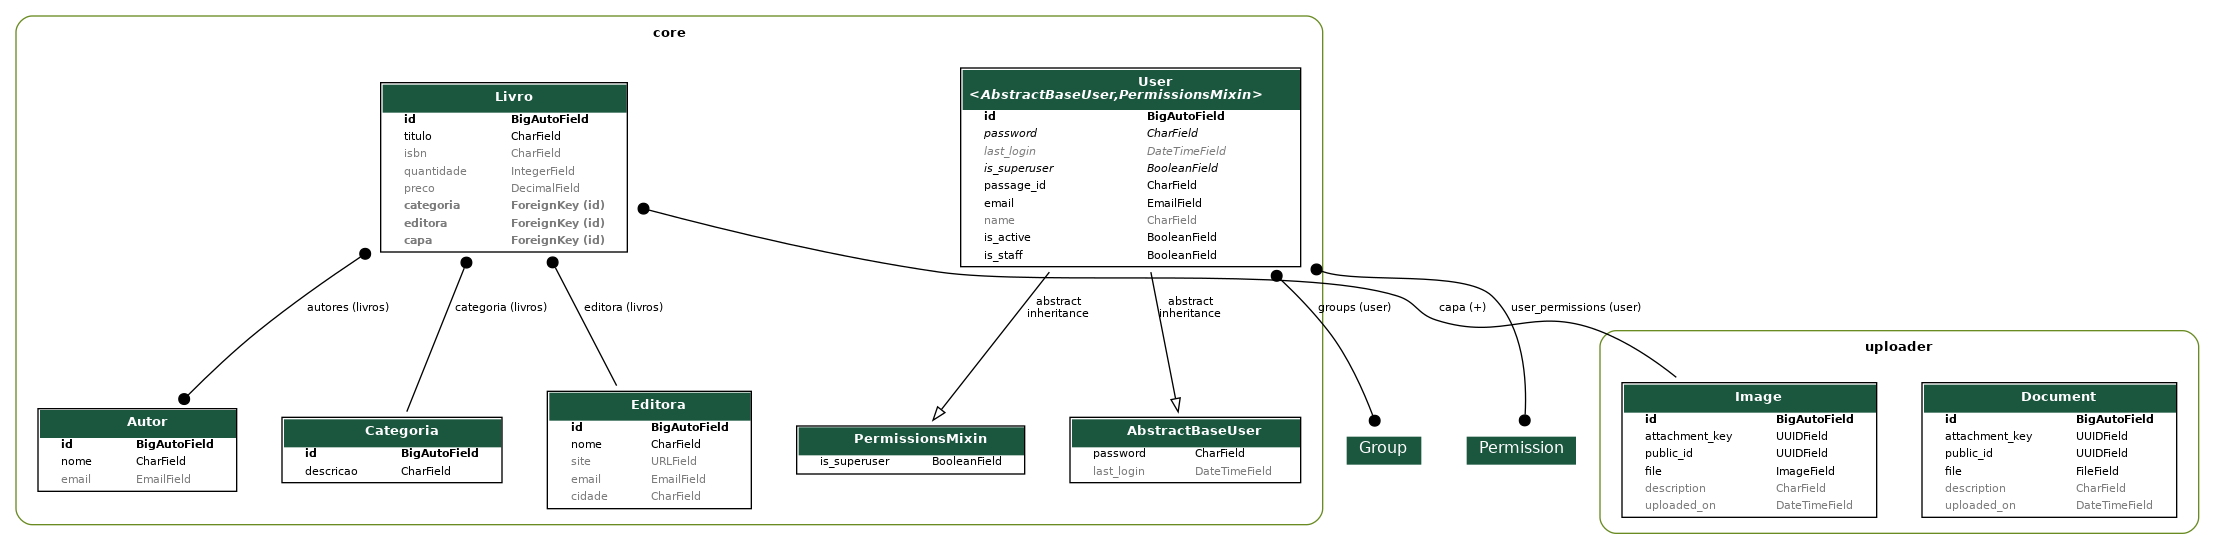
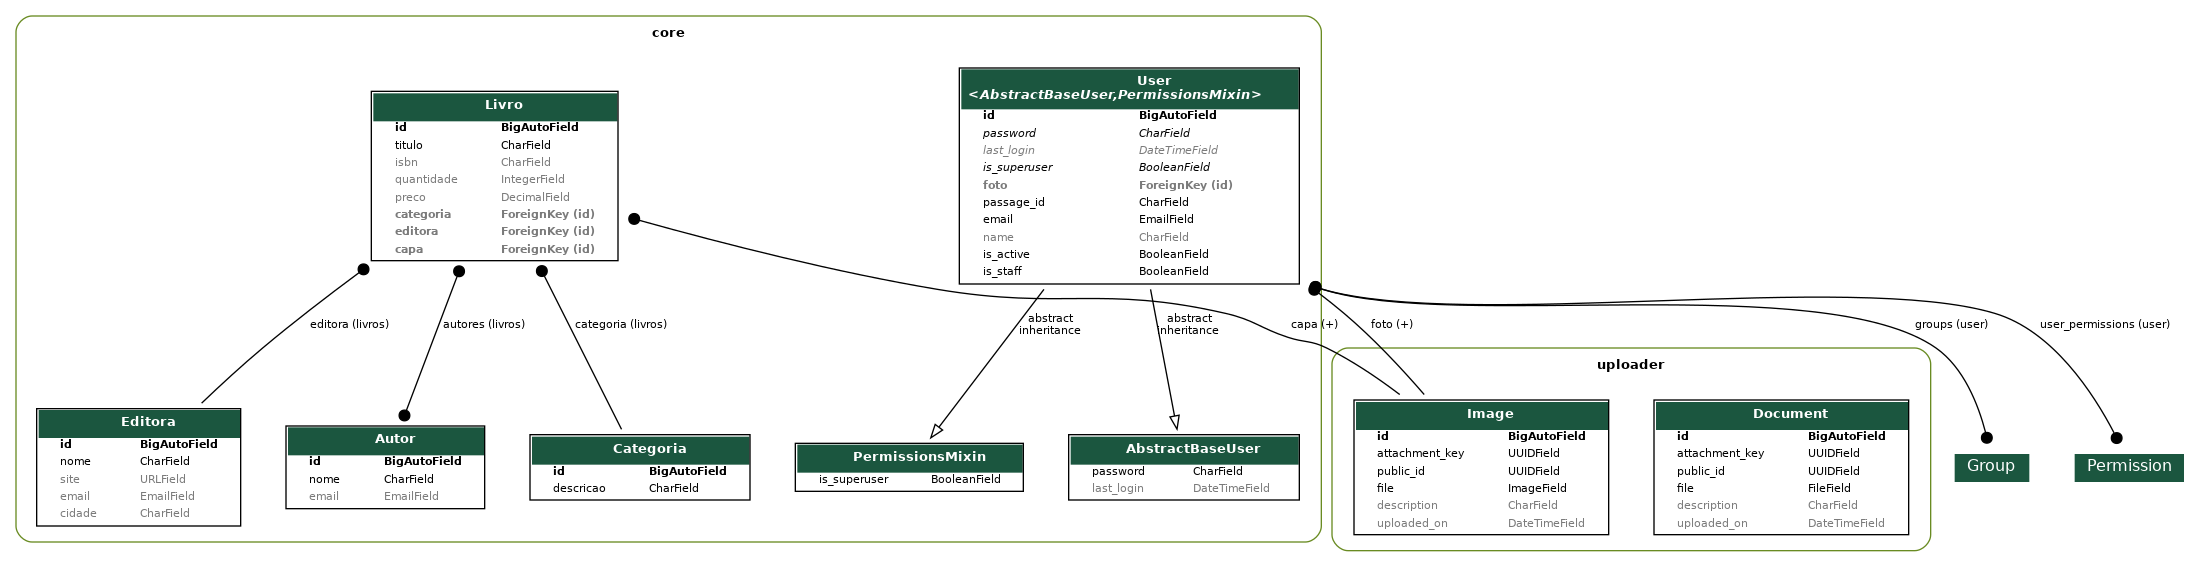
feat: inclusão da foto de perfil no usuário.

diff --git a/core/models/user.py b/core/models/user.py
@@ -10,6 +10,8 @@ from django.contrib.auth.models import (
 from django.db import models
 from django.utils.translation import gettext_lazy as _
 
+from uploader.models import Image
+
 
 class UserManager(BaseUserManager):
     """Manager for users."""
@@ -38,8 +40,14 @@ class UserManager(BaseUserManager):
 
 
 class User(AbstractBaseUser, PermissionsMixin):
-    """User model in the system."""
-
+    foto = models.ForeignKey(
+        Image,
+        related_name="+",
+        on_delete=models.SET_NULL,
+        null=True,
+        blank=True,
+        default=None,
+    )
     passage_id = models.CharField(max_length=255, unique=True, verbose_name=_('passage_id'), help_text=_('Passage ID'))
     email = models.EmailField(max_length=255, unique=True, verbose_name=_('email'), help_text=_('Email'))
     name = models.CharField(max_length=255, blank=True, null=True, verbose_name=_('name'), help_text=_('Username'))

diff --git a/core/serializers/user.py b/core/serializers/user.py
@@ -1,10 +1,23 @@
-from rest_framework.serializers import ModelSerializer
+from rest_framework.serializers import ModelSerializer, SlugRelatedField
 
 from core.models import User
+from uploader.models import Image
+from uploader.serializers import ImageSerializer
 
 
 class UserSerializer(ModelSerializer):
+    foto_attachment_key = SlugRelatedField(
+        source="foto",
+        queryset=Image.objects.all(),
+        slug_field="attachment_key",
+        required=False,
+        write_only=True,
+    )
+    foto = ImageSerializer(
+        required=False,
+        read_only=True
+    )
+
     class Meta:
         model = User
-        fields = '__all__'
-        depth = 1
+        fields = "__all__"

diff --git a/core/migrations/0019_user_foto.py b/core/migrations/0019_user_foto.py
@@ -1,0 +1,20 @@
+# Generated by Django 5.2.1 on 2025-06-30 18:43
+
+import django.db.models.deletion
+from django.db import migrations, models
+
+
+class Migration(migrations.Migration):
+
+    dependencies = [
+        ('core', '0018_rename_editora_livro_editora'),
+        ('uploader', '0001_initial'),
+    ]
+
+    operations = [
+        migrations.AddField(
+            model_name='user',
+            name='foto',
+            field=models.ForeignKey(blank=True, default=None, null=True, on_delete=django.db.models.deletion.SET_NULL, related_name='+', to='uploader.image'),
+        ),
+    ]

diff --git a/core/admin.py b/core/admin.py
@@ -18,7 +18,7 @@ class UserAdmin(BaseUserAdmin):
     list_display = ['email', 'name']
     fieldsets = (
         (None, {'fields': ('email', 'password')}),
-        (_('Personal Info'), {'fields': ('name', 'passage_id')}),
+        (_('Personal Info'), {'fields': ('name', 'passage_id', 'foto')}),
         (
             _('Permissions'),
             {
